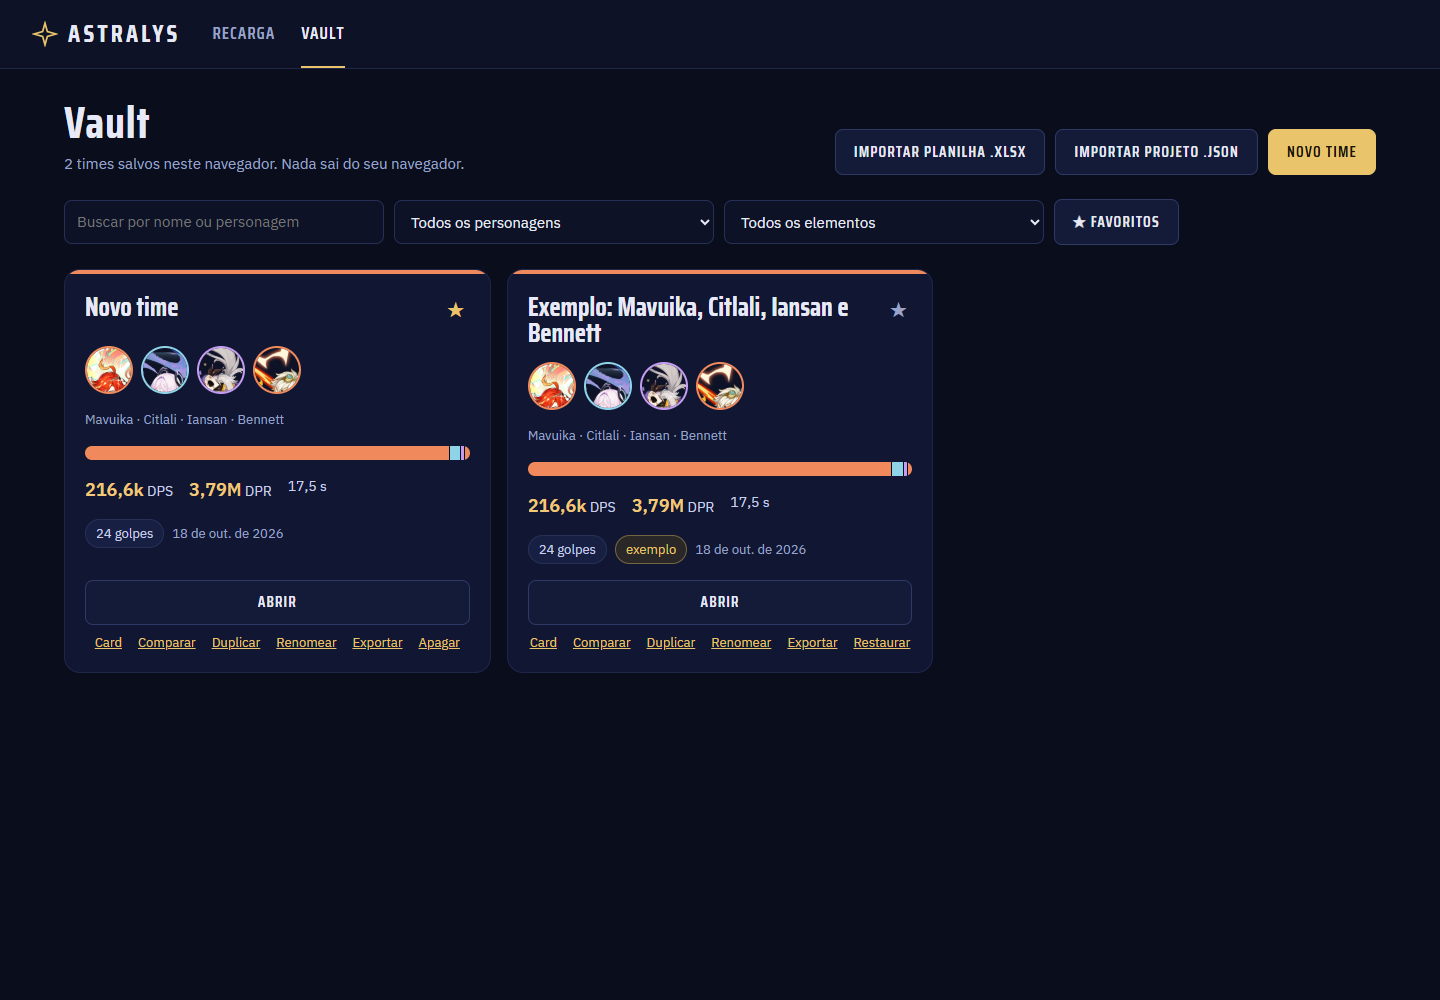
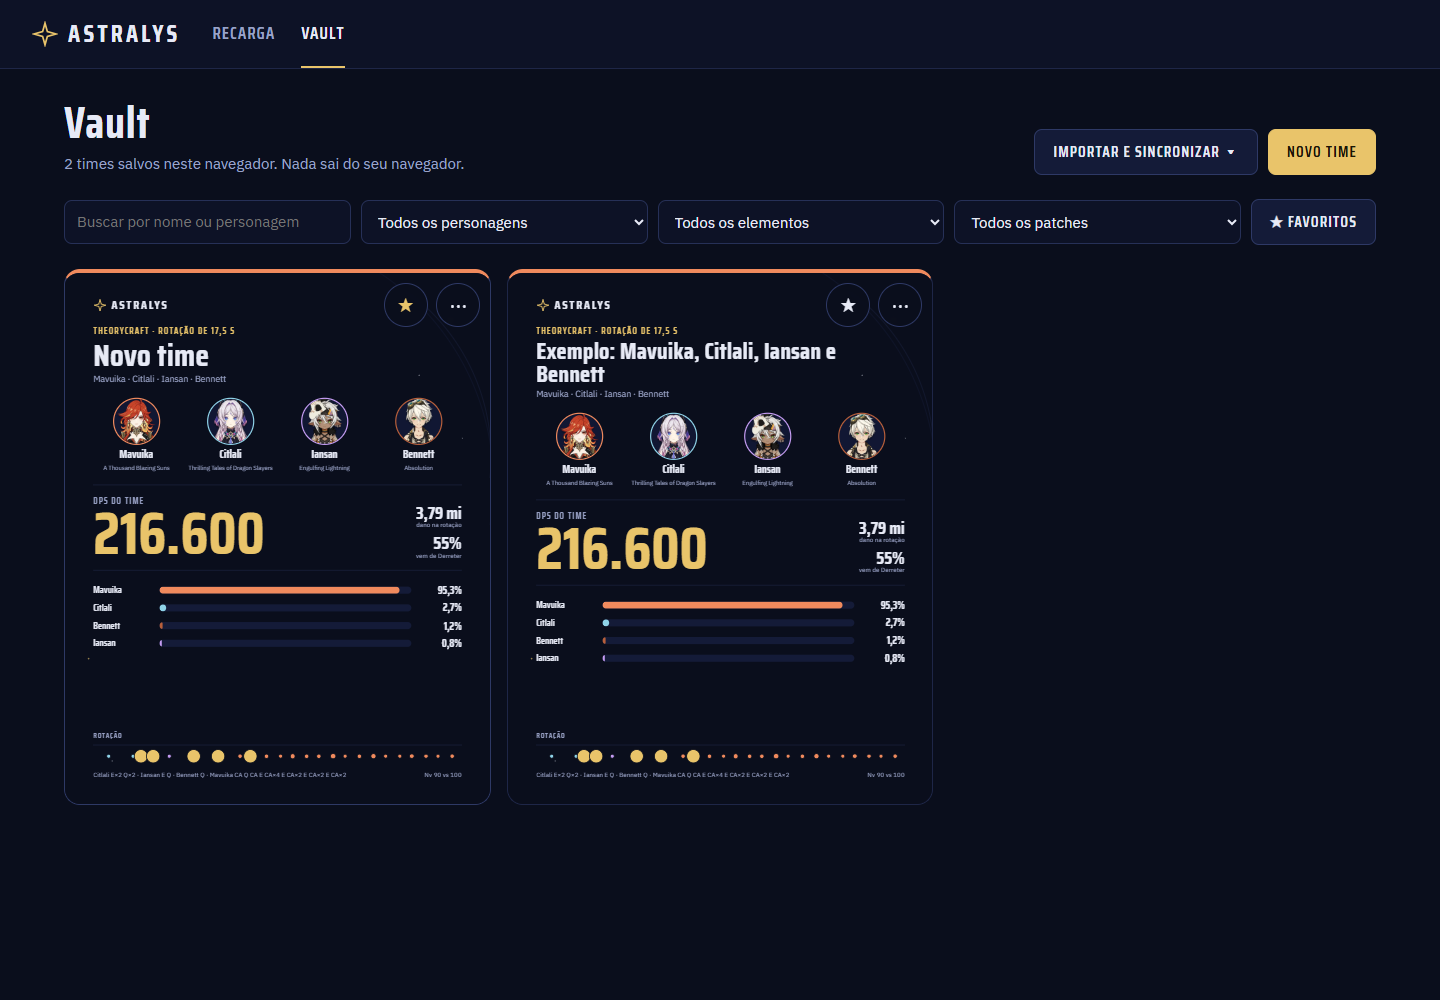
README: o que e o Astralys, link do site, como usar, de onde vem cada dado e como rodar

diff --git a/README.md b/README.md
@@ -1,0 +1,135 @@
+# Astralys
+
+**Teorycraft de Genshin Impact que mostra de onde vem cada número.**
+Monte um time, coloque a rotação numa linha do tempo e veja quanto dano cada personagem, cada buff e cada reação realmente rende.
+
+### 👉 [astralys.vercel.app](https://astralys.vercel.app)
+
+<p align="center">
+  <img src="docs/redesign/equipe-1440.png" alt="Tela Equipe do Astralys" width="900">
+</p>
+
+---
+
+## Para que serve
+
+Calculadoras de dano costumam dar um número e pronto. O Astralys foi feito para responder **"por quê?"**:
+
+- **Quanto vale cada buff?** Desmarque um buff e veja quanto do dano do time some.
+- **De onde vem o dano?** Divisão por personagem, por fonte (golpe, reação, dano fixo) e por tipo de golpe.
+- **Qual é a melhor build com o que eu tenho?** Importe seu inventário e busque o melhor conjunto de artefatos.
+- **Compartilhe.** Gere um card em imagem (4:5, 16:9 ou 9:16) ou um link para o time.
+
+O motor reproduz uma planilha de theorycraft de referência com precisão total (DPS 216.600 e dano de rotação 3.790.496 no time de exemplo) e segue as fórmulas do [Genshin Optimizer](https://github.com/frzyc/genshin-optimizer).
+
+## Como usar (5 passos)
+
+1. **Abra o [Vault](https://astralys.vercel.app/vault)** e clique em **Novo time** (ou abra o exemplo, que já vem pronto).
+2. **Equipe:** veja os 4 personagens, o dano de cada um e o que cada um dá ao time.
+3. **Personagens:** ajuste constelação, talentos, arma, artefatos e substats. Em *Ferramentas*, importe seu build real pelo **UID do jogo** ou pelo arquivo do Genshin Optimizer.
+4. **Rotação e buffs:** arraste os golpes na linha do tempo e ligue os buffs nas janelas em que valem.
+5. **Dano do time:** leia o resultado (DPS, dano por personagem, reações) e gere o **Card** para compartilhar.
+
+## Telas
+
+| Tela | O que faz |
+| --- | --- |
+| **Equipe** | Visão do time: DPS, divisão do dano, reação principal e um cartão por personagem. |
+| **Personagem** | Constelação, talentos, arma, artefatos, substats (otimizados ou à mão), tabela de dano de todo o kit, buffs recebidos e ferramentas. |
+| **Rotação e buffs** | Linha do tempo dos golpes, janelas de buff arrastáveis e cascata de multiplicadores de cada golpe. |
+| **Dano do time** | Curva de dano acumulado, dano por fonte, valor de cada buff e os 10 maiores golpes. |
+| **Armas e constelações** | Compare todas as armas do tipo do personagem, refinamentos R1 a R5 e constelações C0 a C6. |
+| **Recarga** | Quanta recarga de energia cada personagem precisa (dentro do projeto ou avulsa). |
+| **Vault** | Todos os seus times, cada um como um card. Favoritos, busca, filtro por patch, importar planilha `.xlsx` ou projeto `.json`. |
+| **Card** | Imagem para compartilhar, com título, selo, apelido e cor de destaque. |
+| **Comparar** | Dois times lado a lado (DPS, dano e build por personagem). |
+
+<p align="center">
+  <img src="docs/redesign/vault-1440.png" alt="Vault com os times como cards" width="440">
+  <img src="docs/redesign/card-4x5.png" alt="Card para compartilhar em 4:5" width="300">
+</p>
+
+## Importar o seu build
+
+- **Pelo UID do jogo** (Enka.Network, a mesma fonte do akasha.cv): em *Personagem → Ferramentas → Inventário GOOD → Buscar pelo UID*. Traz até 8 personagens da sua vitrine, com arma e as 5 peças reais. A vitrine do jogo precisa estar com os detalhes visíveis.
+- **Pelo Genshin Optimizer:** exporte o inventário no formato GOOD e importe o arquivo. O Astralys ainda busca o melhor conjunto de artefatos do inventário para a rotação.
+- **Planilha:** importe uma planilha de theorycraft no formato do exemplo (`.xlsx`).
+
+Esse recurso precisa do backend (veja abaixo). Sem ele, o resto do site funciona normalmente.
+
+## Conta online (opcional)
+
+Crie uma conta para guardar os times fora do navegador, sincronizá-los entre dispositivos e **compartilhar um time por link** (`/p/...`) que qualquer pessoa abre sem login. Sem conta, tudo fica só no seu navegador.
+
+## De onde vêm os números
+
+| Dado | Fonte |
+| --- | --- |
+| Personagens, armas, artefatos e multiplicadores de golpe | [Lunaris](https://lunaris.moe) (API não oficial) |
+| Fórmulas de dano e reações | Genshin Optimizer (MIT), camada `libs/gi/wr` |
+| Efeitos de passivas, constelações, armas e sets | Curadoria própria, sempre com o texto/parâmetro do Lunaris e uma nota do que foi assumido |
+| Builds reais pelo UID | Enka.Network |
+
+**Regra do projeto:** nenhum número de jogo é inventado. Quando algo é uma premissa (por exemplo, "stacks no máximo"), isso aparece na nota do efeito. As pendências estão em [`docs/DECISOES_PENDENTES.md`](docs/DECISOES_PENDENTES.md).
+
+### O que ainda não é modelado
+
+Dano Físico como elemento, redução de DEF por buff, reações Lunares e Estelares por Moonsign e alguns efeitos de personagens novos. A lista completa e o porquê estão nas decisões pendentes. As partículas de energia da habilidade vêm de uma tabela ainda não verificada.
+
+## Tecnologia
+
+- **Frontend:** React 18, Vite, TypeScript, React Router, Zustand, TanStack Query, Zod. CSS próprio (sem Tailwind).
+- **Motor:** TypeScript puro em `src/engine/` (sem React), roda num Web Worker.
+- **Testes:** Vitest (574 testes, incluindo o gabarito da planilha) e roteiros de ponta a ponta com Playwright em Edge.
+- **Backend (opcional):** [Astralys-BackEnd](https://github.com/Fushyki/Astralys-BackEnd), FastAPI + SQLAlchemy + JWT, com proxy do Enka.
+- **Hospedagem:** Vercel (site) e Render (API e banco PostgreSQL).
+
+## Rodar localmente
+
+```bash
+git clone https://github.com/Fushyki/Astralys.git
+cd Astralys
+npm install
+npm run dev          # http://localhost:5173
+```
+
+Comandos úteis:
+
+```bash
+npm test             # Vitest (motor, dados e telas)
+npx tsc --noEmit     # checagem de tipos
+npm run build        # build de produção em dist/
+npm run sync:data    # baixa os dados do Lunaris e gera src/data/generated/
+```
+
+Testes de ponta a ponta (precisam do build rodando em `localhost:4173` e do Edge):
+
+```bash
+npm run build && npx vite preview --port 4173
+npm run e2e
+```
+
+### Com a conta online
+
+Defina a URL da API no build: `VITE_API_URL=http://localhost:8000` (veja `.env.example`). **Sem essa variável nenhum botão de conta aparece.** O passo a passo para subir o backend local e rodar `npm run e2e:conta` está em [`CLAUDE.md`](CLAUDE.md).
+
+## Estrutura
+
+```
+src/engine/      motor de dano (puro, testado contra a planilha de referência)
+src/effects/     efeitos de passivas, armas e sets (JSON com a fonte de cada número)
+src/data/        dados do jogo gerados pelo sync (não editar à mão)
+src/design/      sistema de design (tokens, componentes, gráficos)
+src/screens/     as telas
+src/features/    lógica de cada tela, pura e testada
+src/online/      conta, sincronização e Enka
+scripts/         sync de dados, curadoria de efeitos e roteiros e2e
+reference/       planilha de referência (gabarito, só leitura)
+docs/            decisões, imagens e notas
+```
+
+Notas para quem mantém o projeto (regras, estado das fases, como cada parte funciona) estão em [`CLAUDE.md`](CLAUDE.md).
+
+## Aviso
+
+Astralys é um projeto de fãs e **não é afiliado à HoYoverse**. Genshin Impact e os nomes e imagens dos personagens pertencem à HoYoverse. Os dados vêm de serviços de terceiros que podem mudar sem aviso. Os avisos das bibliotecas e fontes usadas estão em [`THIRD_PARTY_NOTICES.md`](THIRD_PARTY_NOTICES.md).
